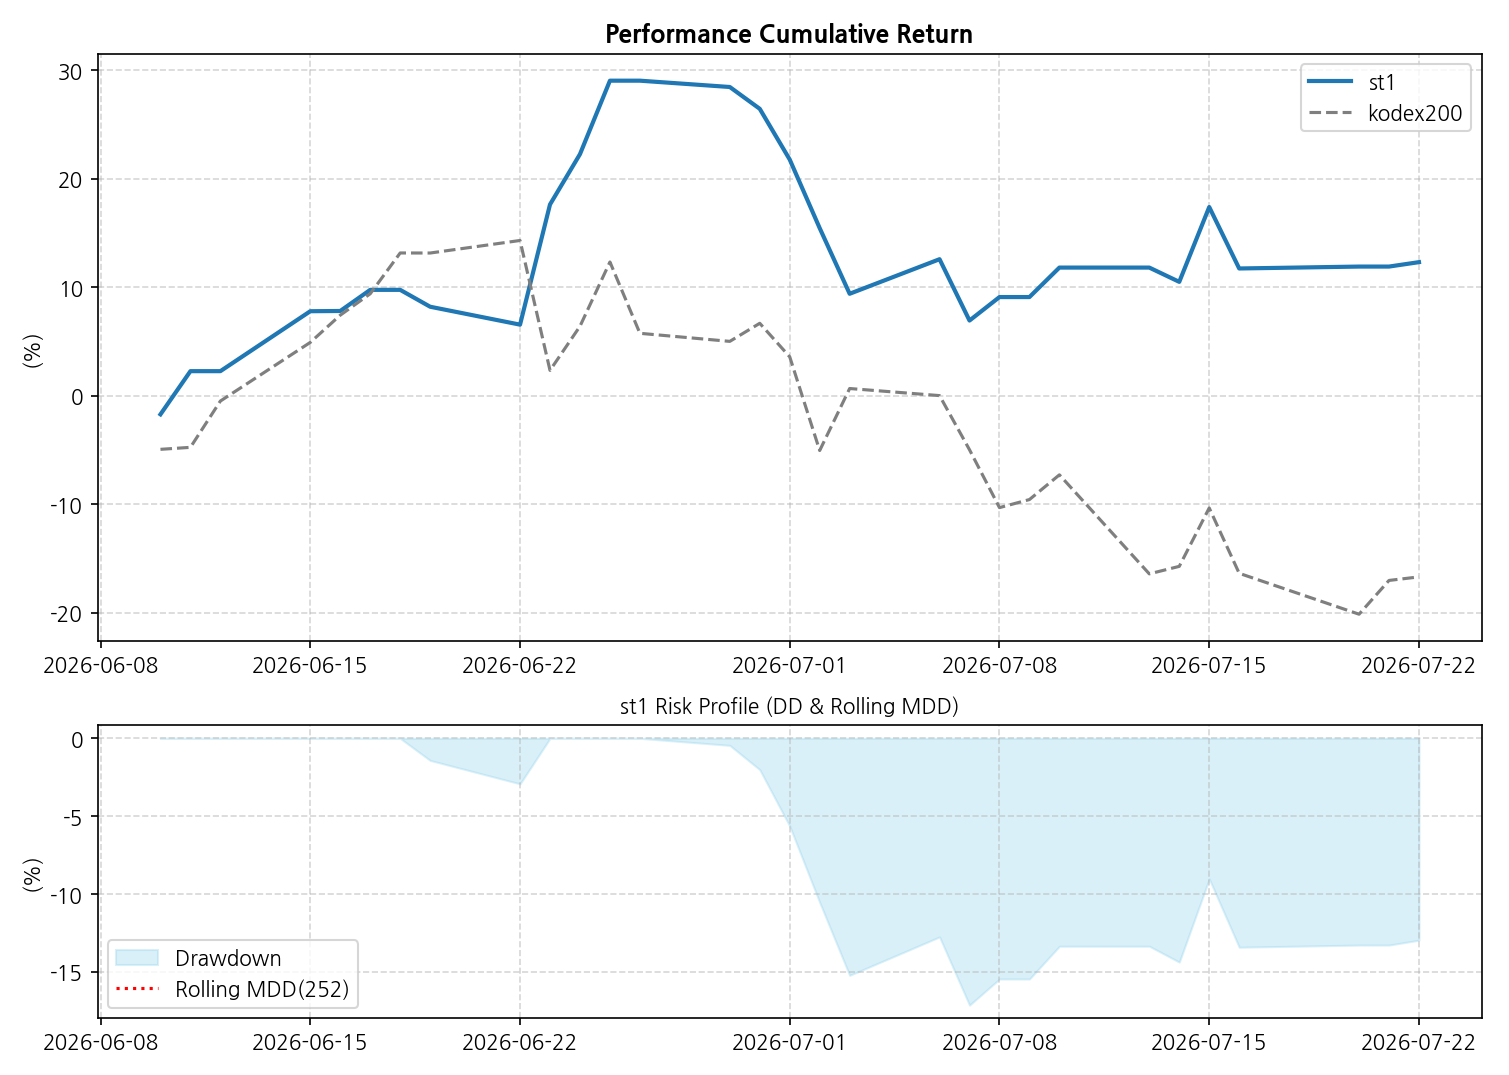
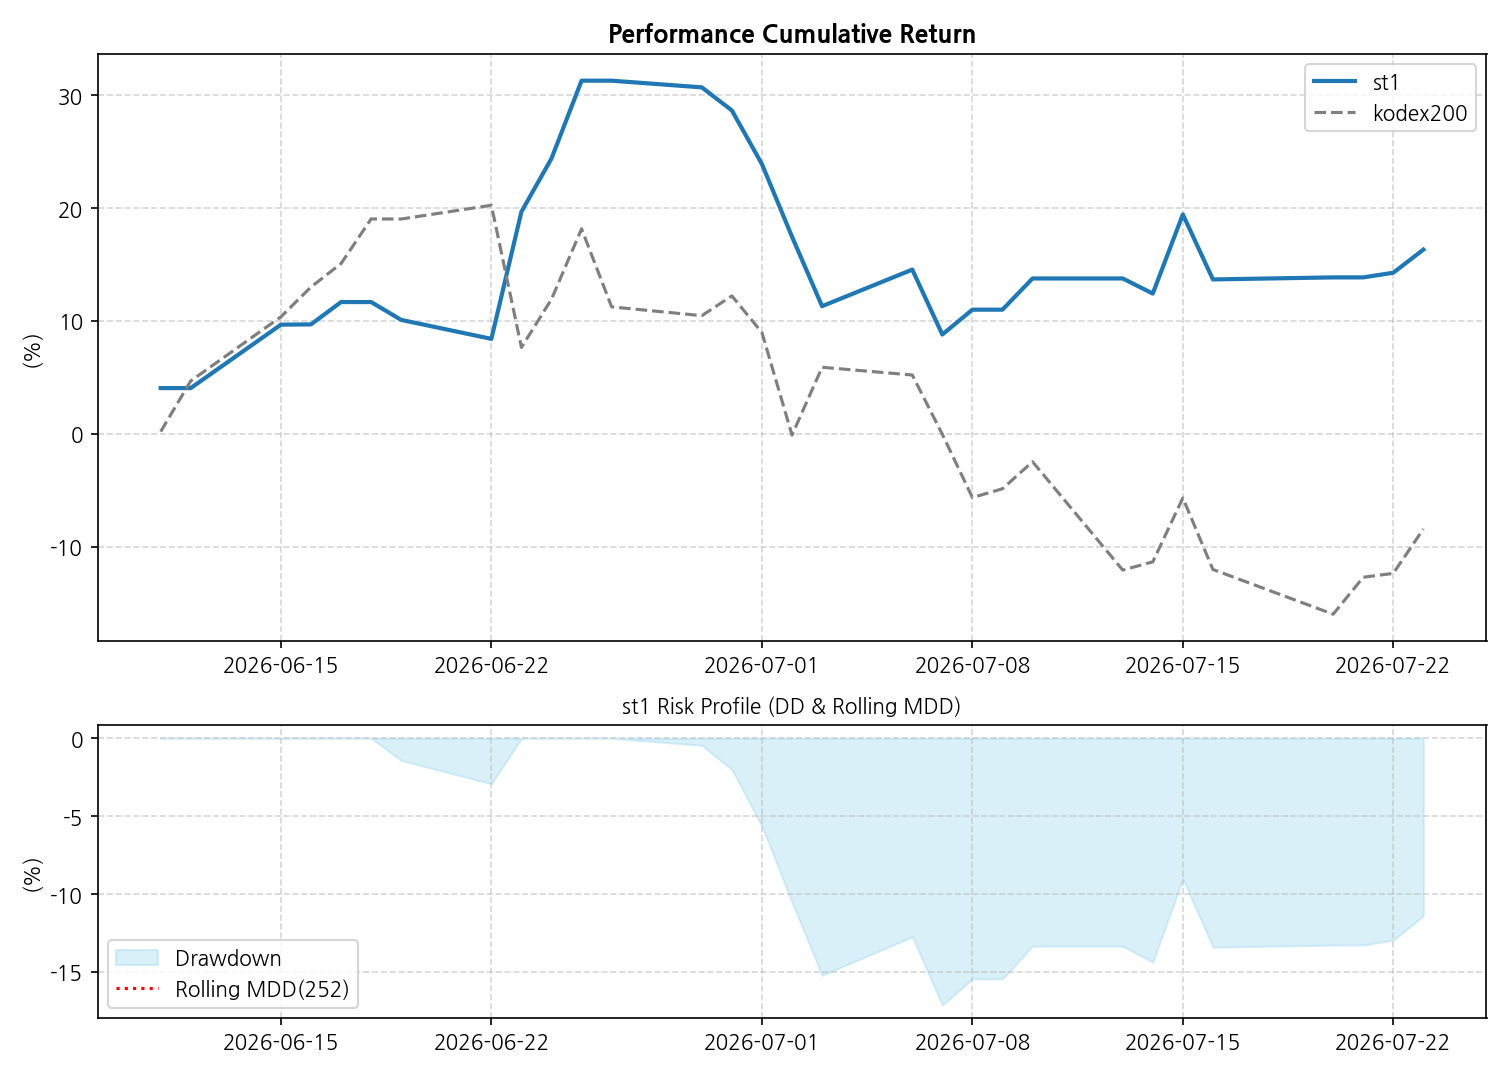
Auto commit

diff --git a/_pages/bt/bt_kodex.md b/_pages/bt/bt_kodex.md
@@ -2,7 +2,7 @@
 layout: post
 title: "BT, 오늘의 시그널(ETF)"
 author: Best Investor
-date: 2026-07-22
+date: 2026-07-23
 category: BT
 mermaid: true
 parent: 포트폴리오
@@ -14,13 +14,13 @@ parent: 포트폴리오
 
 | 지표 | 전략 1 (S1) | 전략 2 (S2) | 차이 (Diff) |
 | :--- | :---: | :---: | :---: |
-| **30일 수익률** | 12.33% | -16.68% | 29.01% |
-| **1년 수익률** | 333.26% | 155.17% | 178.09% |
-| **전체 수익률** | 1254.08% | 259.87% | 994.21% |
+| **30일 수익률** | 16.32% | -8.43% | 24.75% |
+| **1년 수익률** | 335.51% | 163.21% | 172.3% |
+| **전체 수익률** | 1278.35% | 282.14% | 996.21% |
 | **MDD (1Y)** | -17.13% | -30.13% | 13.0%p |
 | **MDD (ALL)** | **-17.13%** | **-30.13%** | 13.0%p |
-| **샤프 (1Y)** | 3.86 | 2.15 | 1.71 |
-| **샤프 (ALL)** | **2.81** | **1.23** | 1.58 |
+| **샤프 (1Y)** | 3.87 | 2.21 | 1.66 |
+| **샤프 (ALL)** | **2.83** | **1.28** | 1.55 |
 
 ## 📉 누적 성과 및 리스크 차트
 1. **최근 30일:** ![30일](/img_st/st_kodex_cum_risk_30d.png)